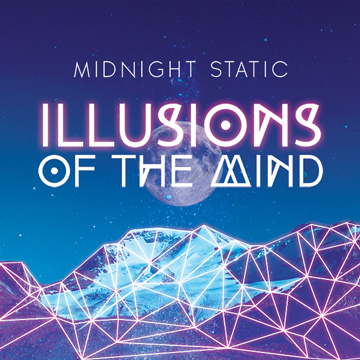
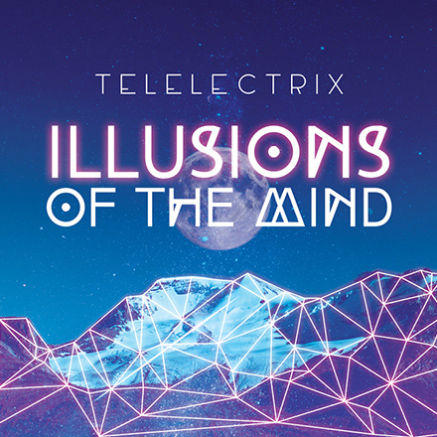
updated FMA and Telelectrix sections

diff --git a/portfolio.html b/portfolio.html
@@ -50,6 +50,14 @@
                             <p>BRANDING, RESPONSIVE DESIGN, VIDEO</p>
                             </div></a>
                         </div>
+                        <div class="item midnight-static">
+                            <a href="telelectrix.html">
+                                <div class="content-container">
+                                    <h1>TELELECTRIX</h1>
+                                    <p>BRANDING, WEB DESIGN, PRINT, PHOTOGRAPHY</p>
+                                </div>
+                            </a>
+                        </div>
                         <div class="item vsnap-branding">
                             <a href="vsnap-brand.html"><div class="content-container">
                             <h1>VSNAP BRANDING</h1>
@@ -75,14 +83,6 @@
                                 <div class="content-container">
                                     <h1>CUSTOMER LOVE SUMMIT</h1>
                                     <p>ENVIRONMENTAL DESIGN, BRANDING, PRINT</p>
-                                </div>
-                            </a>
-                        </div>
-                        <div class="item midnight-static">
-                            <a href="midnightstatic.html">
-                                <div class="content-container">
-                                    <h1>MIDNIGHT STATIC</h1>
-                                    <p>BRANDING, WEB DESIGN, PRINT</p>
                                 </div>
                             </a>
                         </div>

diff --git a/fma.html b/fma.html
@@ -37,13 +37,15 @@
          <section id="gallery-header">
                 <div class="content-container">
                     <h1>FREEMYAPPS</h1>
-                    <p>BRANDING, RESPONSIVE DESIGN, VIDEO</p>
+                    <p>BRANDING, RESPONSIVE DESIGN, VIDEO, PRINT</p>
                     <p><a href="http://welcome.freemyapps.com">FREEMYAPPS.COM</a></p>
                 </div>
             </section>
             <section id="fma">
                       <div class="gallery-container clearfix">
                         <style>.embed-container { position: relative; padding-bottom: 56.25%; height: 0; overflow: hidden; max-width: 100%; } .embed-container iframe, .embed-container object, .embed-container embed { position: absolute; top: 0; left: 0; width: 100%; height: 100%; }</style><div class='embed-container'><iframe src='https://www.youtube.com/embed/bjxLnC3YlZU' frameborder='0' allowfullscreen></iframe></div>
+                        <img src="img/fma-shirt-closeup.jpg" alt="FreeMyApps t-shirt design">
+                        <img src="img/fma-shirt.jpg" alt="FreeMyApps t-shirt">
                         <img src="img/fma-site.jpg" alt="FreeMyApps home page">
                       </div>        
             </section>

diff --git a/telelectrix.html b/telelectrix.html
@@ -43,11 +43,10 @@
             </section>
             <section id="vsnap-brand">
                       <div class="gallery-container clearfix">
-                        <img src="img/telelectrix-photo.jpg" alt="Telelectrix Band Photo">
+                        <img src="img/telelectrix-logo.jpg" alt="Telelectrix Logo">
                         <img src="img/ms-illusions.jpg" alt="Illusions of the Mind single artwork">
                         <img src="img/move-artwork.jpg" alt="Move EP Cover">
-                        <img src="img/ms-cards.jpg" alt="Midnight Static business cards">
-                        <img src="img/ms-sticker.jpg" alt="Midnight Static stickers">
+                        <img src="img/telelectrix-photo.jpg" alt="Telelectrix Band Photo">
                       </div>        
             </section>
              <footer>

diff --git a/css/main.css b/css/main.css
@@ -567,7 +567,6 @@ display: inline-block;
 }
 
 #fma {
-    background: #f6f4f5;
     color: #272626;
 }
 
@@ -585,7 +584,6 @@ display: inline-block;
 }
 
 #fma {
-    background: #f6f4f5;
     color: #272626;
 }
 
